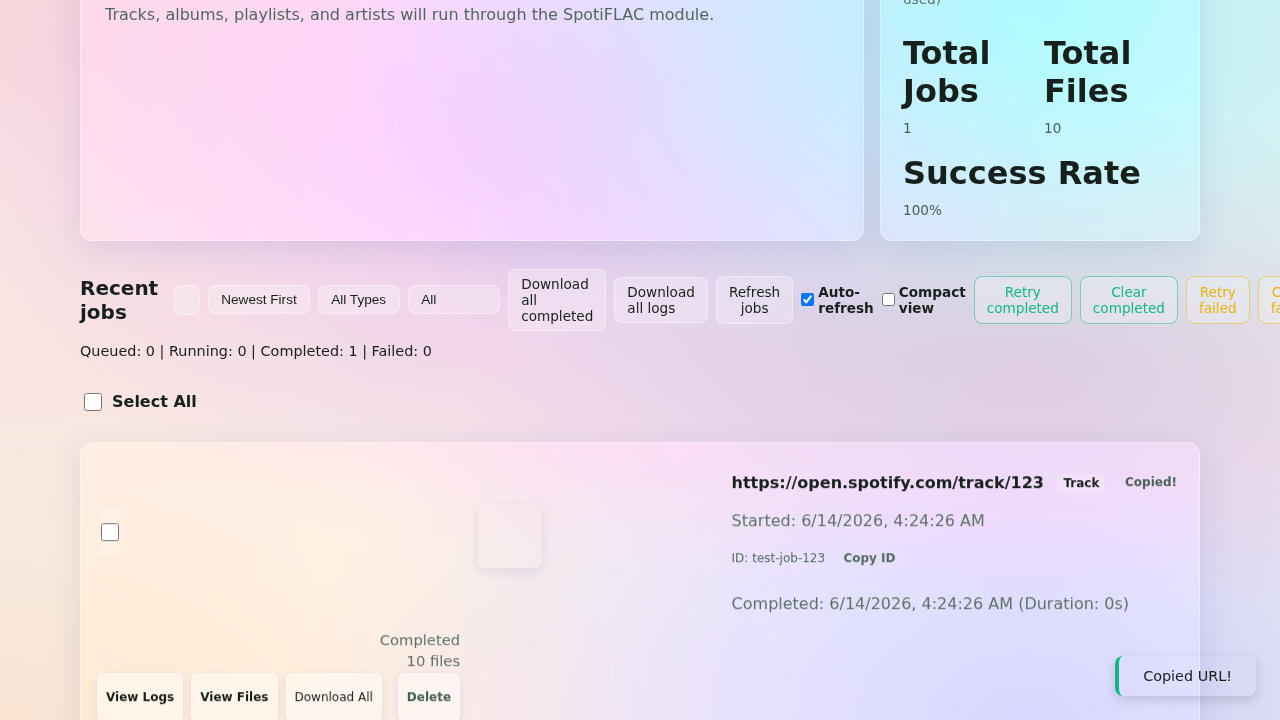
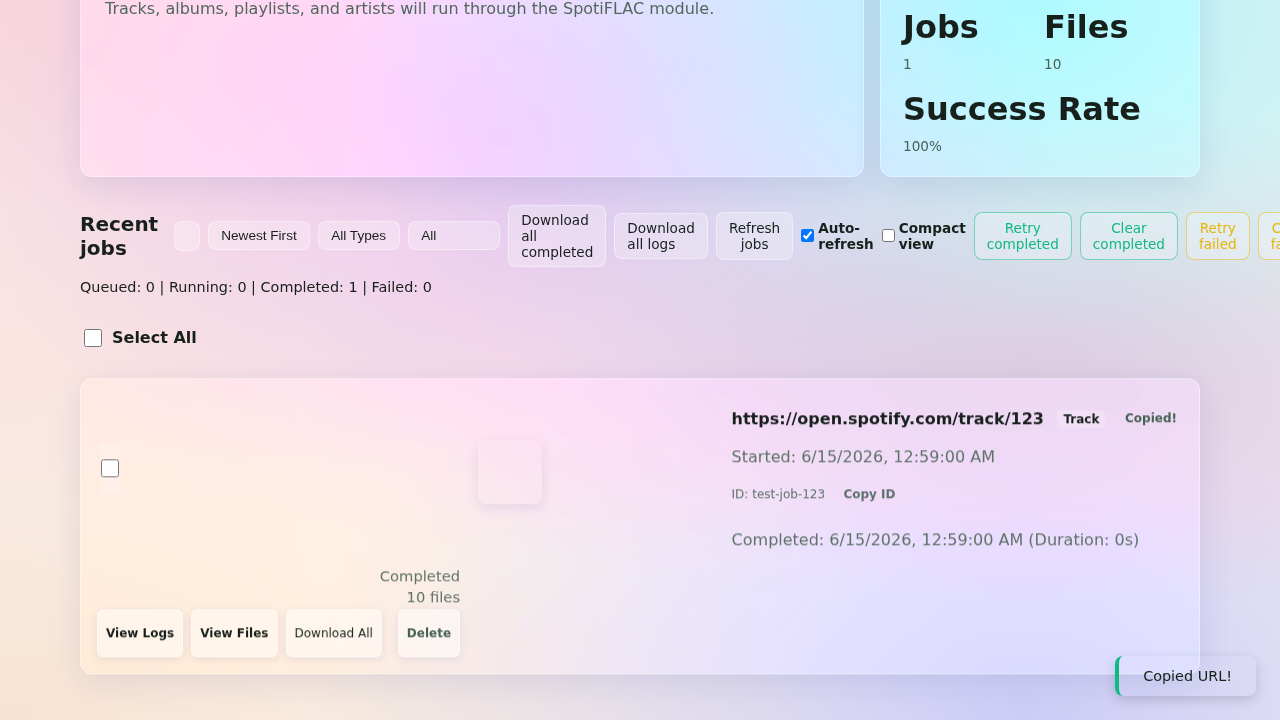
feat: add audio provider service and quality selection
Updates the UI to allow selecting the audio provider service and
quality level. Passes these settings to the server, which runs
spotiflac with the respective flags.

diff --git a/website/src/app.js b/website/src/app.js
@@ -190,10 +190,22 @@ export function renderApp(root) {
               required
               rows="3"
             ></textarea>
+            <select id="service-select" name="service" class="job-status-filter" aria-label="Provider Service Setting" style="align-self: flex-start; margin-right: 10px; background-color: var(--card-bg); border-color: var(--border-color); color: var(--text-color);">
+              <option value="tidal" selected>Tidal</option>
+              <option value="qobuz">Qobuz</option>
+              <option value="deezer">Deezer</option>
+              <option value="amazon">Amazon</option>
+              <option value="spoti">Spotify</option>
+              <option value="soundcloud">Soundcloud</option>
+              <option value="youtube">YouTube</option>
+              <option value="apple">Apple</option>
+              <option value="pandora">Pandora</option>
+            </select>
             <select id="quality-select" name="quality" class="job-status-filter" aria-label="Quality Setting" style="align-self: flex-start; margin-right: 10px; background-color: var(--card-bg); border-color: var(--border-color); color: var(--text-color);">
-              <option value="128kbps">128kbps</option>
-              <option value="256kbps" selected>256kbps</option>
-              <option value="320kbps">320kbps</option>
+              <option value="LOSSLESS" selected>LOSSLESS</option>
+              <option value="HI_RES_LOSSLESS">HI_RES_LOSSLESS</option>
+              <option value="HIGH">HIGH</option>
+              <option value="LOW">LOW</option>
             </select>
             <button type="button" id="clear-input-btn" class="clear-history-btn hidden-btn">Clear input</button>
             <button type="submit">Queue</button>
@@ -743,12 +755,14 @@ export function renderApp(root) {
 
     try {
       const qualitySelect = form.querySelector('#quality-select');
-      const quality = qualitySelect ? qualitySelect.value : "256kbps";
+      const quality = qualitySelect ? qualitySelect.value : "LOSSLESS";
+      const serviceSelect = form.querySelector('#service-select');
+      const service = serviceSelect ? serviceSelect.value : "tidal";
       const requests = urls.map(url =>
         fetch("/api/jobs", {
           method: "POST",
           headers: { "Content-Type": "application/json" },
-          body: JSON.stringify({ url, quality })
+          body: JSON.stringify({ url, quality, service })
         })
       );
 

diff --git a/website/tests/download_job_form.spec.js b/website/tests/download_job_form.spec.js
@@ -55,7 +55,8 @@ test('Download job form submits with URL and quality setting', async ({ page }) 
   await page.fill('#spotify-url', testUrl);
 
   // Select a quality setting
-  await page.selectOption('#quality-select', '320kbps');
+  await page.selectOption('#service-select', 'qobuz');
+  await page.selectOption('#quality-select', 'LOSSLESS');
 
   // Submit the form
   await page.click('button[type="submit"]');
@@ -65,7 +66,8 @@ test('Download job form submits with URL and quality setting', async ({ page }) 
   await page.waitForResponse(response => response.url().includes('/api/jobs') && response.request().method() === 'POST');
   expect(submittedPayload).not.toBeNull();
   expect(submittedPayload.url).toBe(testUrl);
-  expect(submittedPayload.quality).toBe('320kbps');
+  expect(submittedPayload.quality).toBe('LOSSLESS');
+  expect(submittedPayload.service).toBe('qobuz');
   expect(postCalls).toBe(1);
 
   // Verify feedback message

diff --git a/server.py b/server.py
@@ -47,6 +47,8 @@ running_processes = {}
 
 class JobRequest(BaseModel):
     url: HttpUrl
+    quality: Optional[str] = None
+    service: Optional[str] = None
 
 
 class JobResponse(BaseModel):
@@ -97,7 +99,7 @@ async def update_job_status(job_id: str, status: str, error_log: Optional[str] =
     await write_history(history)
 
 
-async def run_spotiflac(job_id: str, url: str):
+async def run_spotiflac(job_id: str, url: str, quality: Optional[str] = None, service: Optional[str] = None):
     logger.info(f"Starting job {job_id} for URL {url}")
 
     # Check if job was already cancelled while queued
@@ -121,8 +123,13 @@ async def run_spotiflac(job_id: str, url: str):
     process = None
     try:
         with open(log_file_path, "w") as log_file:
+            cmd = ["uv", "run", "spotiflac", url, str(job_output_dir)]
+            if quality:
+                cmd.extend(["--quality", quality])
+            if service:
+                cmd.extend(["--service", service])
             process = await asyncio.create_subprocess_exec(
-                "uv", "run", "spotiflac", url, str(job_output_dir),
+                *cmd,
                 stdout=log_file,
                 stderr=asyncio.subprocess.STDOUT
             )
@@ -174,7 +181,7 @@ async def create_job(request: JobRequest, background_tasks: BackgroundTasks):
     history.insert(0, new_job)
     await write_history(history)
 
-    background_tasks.add_task(run_spotiflac, job_id, url_str)
+    background_tasks.add_task(run_spotiflac, job_id, url_str, request.quality, request.service)
 
     return new_job
 

diff --git a/docs/backlog/closed/001-provider-quality-selection.md b/docs/backlog/closed/001-provider-quality-selection.md
@@ -1,0 +1,12 @@
+# Add Audio Provider Service and Quality selection to the SpotiFLAC web UI
+
+## Requirement
+The SpotiFLAC web UI needs to support native `spotiflac` options for downloading music:
+1. **Audio Provider (`--service`)**: The backend should allow users to specify the download service like tidal, qobuz, deezer, amazon, spoti, soundcloud, youtube, apple, pandora.
+2. **Quality Levels (`--quality`)**: The quality selection in the frontend should use native quality values like `LOSSLESS`, `HI_RES_LOSSLESS`, `HIGH`, `LOW` rather than kbps mappings.
+
+## Implementation details
+- Update `website/src/app.js` to replace the `128kbps`/`256kbps`/`320kbps` selector with standard quality names supported by spotiflac.
+- Add a new `<select>` input in `website/src/app.js` for `service`.
+- Pass `service` and `quality` via the `/api/jobs` endpoint.
+- Update `server.py` to parse `service` and `quality` and pass them as flags to the `spotiflac` CLI invocation.
